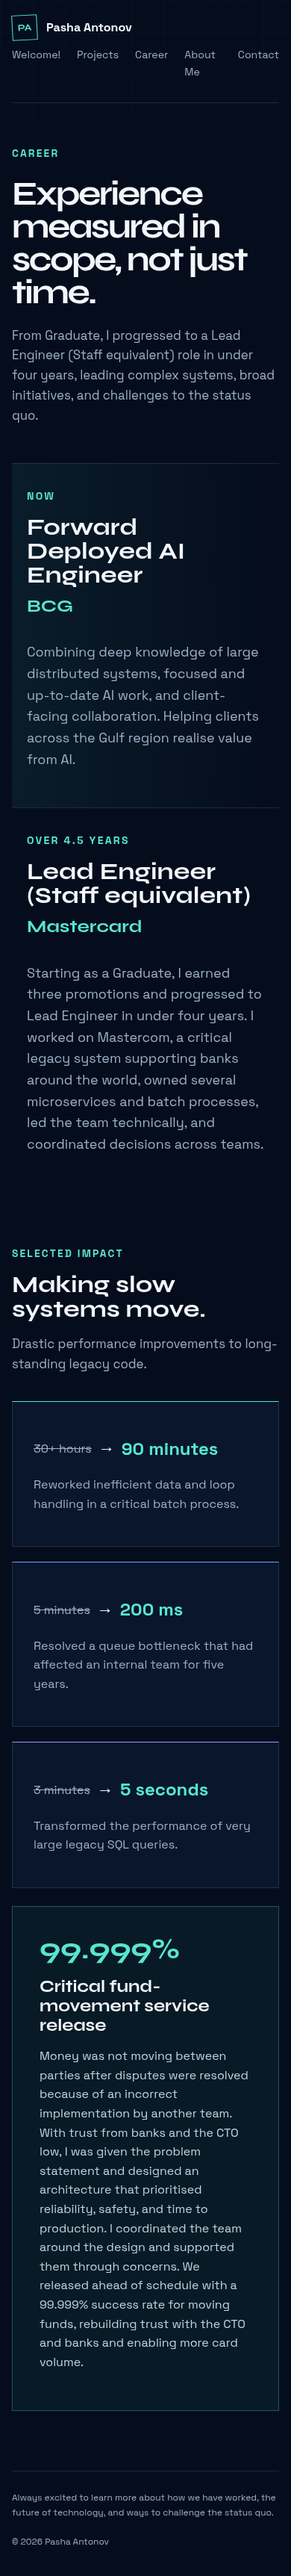
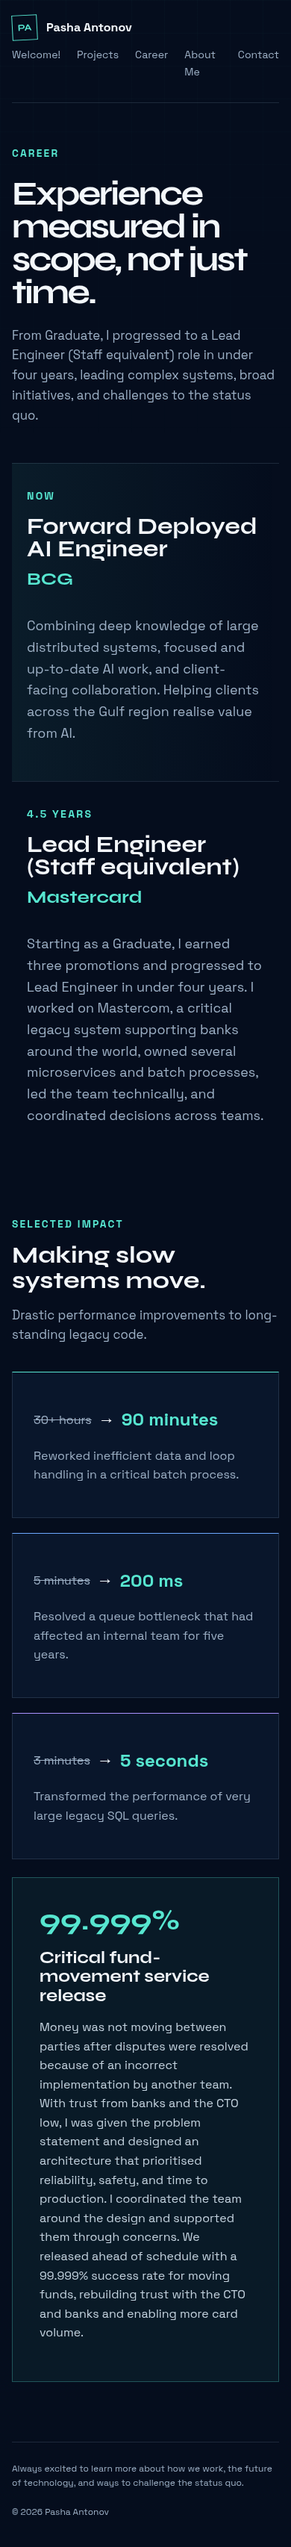
Implement second portfolio proposal iteration

diff --git a/app/globals.css b/app/globals.css
@@ -205,7 +205,8 @@ main {
 .hero-stats dt {
   font-family: var(--font-display);
   font-weight: 700;
-  font-size: 1.08rem;
+  font-size: clamp(0.82rem, 1.05vw, 1rem);
+  white-space: nowrap;
 }
 .hero-stats dt strong {
   color: var(--cyan);
@@ -284,7 +285,7 @@ main {
 }
 .manifesto-copy {
   font-family: var(--font-display);
-  font-size: clamp(2rem, 4.5vw, 4.4rem);
+  font-size: clamp(1.9rem, 4vw, 3.9rem);
   line-height: 1.12;
   max-width: 1050px;
   margin: 0;
@@ -301,6 +302,19 @@ main {
 }
 .page-intro .lede {
   max-width: 740px;
+}
+.projects-page .page-intro h1 {
+  font-size: clamp(2.65rem, 5.4vw, 5.1rem);
+}
+.projects-page .page-intro .lede {
+  max-width: none;
+}
+.projects-page .page-intro .lede p {
+  white-space: nowrap;
+}
+.about-page .page-intro h1,
+.contact-page .page-intro h1 {
+  font-size: clamp(2.65rem, 5.4vw, 5.1rem);
 }
 .page-stack > .page-intro > .eyebrow,
 .impact-kicker,
@@ -445,7 +459,7 @@ main {
   background: linear-gradient(90deg, rgba(87, 230, 208, 0.07), transparent);
 }
 .career-feature h2 {
-  font: 700 clamp(2rem, 4vw, 3.7rem)/1 var(--font-display);
+  font: 700 clamp(1.9rem, 3.7vw, 3.45rem)/1 var(--font-display);
   margin: 0;
 }
 .career-feature > p {
@@ -607,6 +621,9 @@ main {
   object-fit: cover;
   filter: saturate(0.85) contrast(1.03);
 }
+.photo-card-chase img {
+  object-position: 65% center;
+}
 .photo-card figcaption {
   position: absolute;
   left: 16px;
@@ -711,6 +728,9 @@ main {
   .hero-stats {
     grid-column: 1;
   }
+  .hero-stats dt {
+    white-space: normal;
+  }
   .portrait-wrap {
     grid-row: 4;
     margin-block: 16px 30px;
@@ -748,6 +768,12 @@ main {
   }
   .photo-card-wide {
     grid-row: auto;
+  }
+  .projects-page .page-intro .lede p {
+    white-space: normal;
+  }
+  .photo-card-chase img {
+    object-position: center;
   }
   .career-feature {
     grid-template-columns: 1fr;

diff --git a/tests/e2e/navigation.spec.ts b/tests/e2e/navigation.spec.ts
@@ -90,6 +90,13 @@ test("proposal content and ordering are rendered", async ({ page }) => {
     "aia",
     "Blackjack in C",
   ]);
+  await expect(page.getByText(/YouTube video with 2,827 views/)).toBeVisible();
+
+  await page.goto("/career");
+  await expect(page.getByText("4.5 years", { exact: true })).toBeVisible();
+  await expect(page.getByText("Over 4.5 years", { exact: true })).toHaveCount(
+    0,
+  );
 
   await page.goto("/about");
   for (const image of [/engagement/i, /Chase/i, /Bella/i]) {
@@ -104,6 +111,39 @@ test("proposal content and ordering are rendered", async ({ page }) => {
       )
       .toBeGreaterThan(0);
   }
+});
+
+test("desktop proposal copy intended for one line does not wrap", async ({
+  page,
+}) => {
+  await page.setViewportSize({ width: 1440, height: 1000 });
+  await page.goto("/");
+  for (const label of [
+    "Under four years",
+    "99.999% release success",
+    "Master’s in AI",
+  ]) {
+    const heading = page.locator(".hero-stats dt", { hasText: label });
+    const lineHeight = await heading.evaluate((element) =>
+      Number.parseFloat(getComputedStyle(element).lineHeight),
+    );
+    const height = await heading.evaluate(
+      (element) => element.getBoundingClientRect().height,
+    );
+    expect(height).toBeLessThan(lineHeight * 1.5);
+  }
+
+  await page.goto("/projects");
+  const intro = page.getByText(
+    "These are the projects I am proud of, and each shows you a little of who I am.",
+  );
+  const introLineHeight = await intro.evaluate((element) =>
+    Number.parseFloat(getComputedStyle(element).lineHeight),
+  );
+  const introHeight = await intro.evaluate(
+    (element) => element.getBoundingClientRect().height,
+  );
+  expect(introHeight).toBeLessThan(introLineHeight * 1.5);
 });
 
 test("mobile layout remains usable without horizontal overflow", async ({

diff --git a/app/about/page.tsx b/app/about/page.tsx
@@ -8,7 +8,7 @@ export const metadata = { title: "About Me" };
 
 export default function AboutPage() {
   return (
-    <div className="section-wrap page-stack">
+    <div className="section-wrap page-stack about-page">
       <PageIntro
         eyebrow="About me"
         title="I’m happiest when discussing problems with others before the path is clear."
@@ -67,7 +67,7 @@ export default function AboutPage() {
             />
             <figcaption>Celebrating our engagement</figcaption>
           </figure>
-          <figure className="photo-card">
+          <figure className="photo-card photo-card-chase">
             <Image
               src={chaseRabbit}
               alt="Chase, Pasha’s white male rabbit"

diff --git a/data/projects.ts b/data/projects.ts
@@ -39,7 +39,7 @@ export const projects: Project[] = [
     name: "Blackjack in C",
     eyebrow: "Where it started",
     description:
-      "A tough first-year assignment that pushed the limits of my knowledge, accompanied by a detailed YouTube video with more than 3,000 views.",
+      "A tough first-year assignment that pushed the limits of my knowledge, accompanied by a detailed YouTube video with 2,827 views.",
     href: "https://github.com/Pasha-Akito/BlackJack-C",
     tags: ["C", "Game Logic", "YouTube"],
     visual: "blackjack",

diff --git a/app/career/page.tsx b/app/career/page.tsx
@@ -47,7 +47,7 @@ export default function CareerPage() {
       </section>
       <section className="career-feature muted-feature">
         <div>
-          <p className="eyebrow career-kicker">Over 4.5 years</p>
+          <p className="eyebrow career-kicker">4.5 years</p>
           <h2>Lead Engineer (Staff equivalent)</h2>
           <p className="company company-prominent">Mastercard</p>
         </div>

diff --git a/app/projects/page.tsx b/app/projects/page.tsx
@@ -6,7 +6,7 @@ export const metadata = { title: "Projects" };
 
 export default function ProjectsPage() {
   return (
-    <div className="section-wrap page-stack">
+    <div className="section-wrap page-stack projects-page">
       <PageIntro
         eyebrow="My favourite projects"
         title="Projects that challenged my skills and deepened my understanding of technology."

diff --git a/components/footer.tsx b/components/footer.tsx
@@ -2,7 +2,7 @@ export function Footer() {
   return (
     <footer className="site-footer">
       <p>
-        Always excited to learn more about how we have worked, the future of
+        Always excited to learn more about how we work, the future of
         technology, and ways to challenge the status quo.
       </p>
       <p>© {new Date().getFullYear()} Pasha Antonov</p>

diff --git a/PROPOSALS_V2.md b/PROPOSALS_V2.md
@@ -1,0 +1,30 @@
+# Proposal V2
+
+## General
+
+- Lets change "Always excited to learn more about how we have worked, the future of technology, and ways to challenge the status quo." to "Always excited to learn more about how we work, the future of technology, and ways to challenge the status quo."
+
+# Welcome Page
+
+- Can you space the three items "under four years / 99.999% release success / masters in ai" so that these headings stay on a single line. - This is on Desktop
+- Lets make the font a little smaller for "I enjoy building straightforward solutions suited to the task at hand. The best part is collaborating with people and helping them solve their problems."
+
+# Projects
+
+- Lets make the font smaller for "Projects that challenged my skills and deepened my understanding of technology."
+- Lets fix this on one line "These are the projects I am proud of, and each shows you a little of who I am." - This is on Desktop
+- also the blackjack youtube video has "2,827 views" so saying over 3,000 viewers is not credible
+
+# Career
+
+- Lets change Over 4.5 years to 4.5 years
+- lets lower hte font very slightly for "Forward Deployed AI Engineer" and "Lead Engineer (Staff equivalent)"
+
+# About me
+
+- Lets make this font slightly smaller " I’m happiest when discussing problems with others before the path is clear."
+- On Desktop Chase's photo zooms in too far, cutting part of his face.
+
+# Contact
+
+- lets make this font slightly smaller "Have an interesting problem, or just want to chat about technology? Let’s talk."

diff --git a/CHANGELOG.md b/CHANGELOG.md
@@ -31,3 +31,5 @@ in `SPEC.md`; this file records what changed rather than what is planned.
   the project grid, and refreshed project and contact wording.
 - Added an About Me photo gallery featuring Pasha's engagement and rabbits,
   Chase and Bella.
+- Refined proposal copy, desktop heading scale and line wrapping, and Chase's
+  gallery crop based on visual-review feedback.
